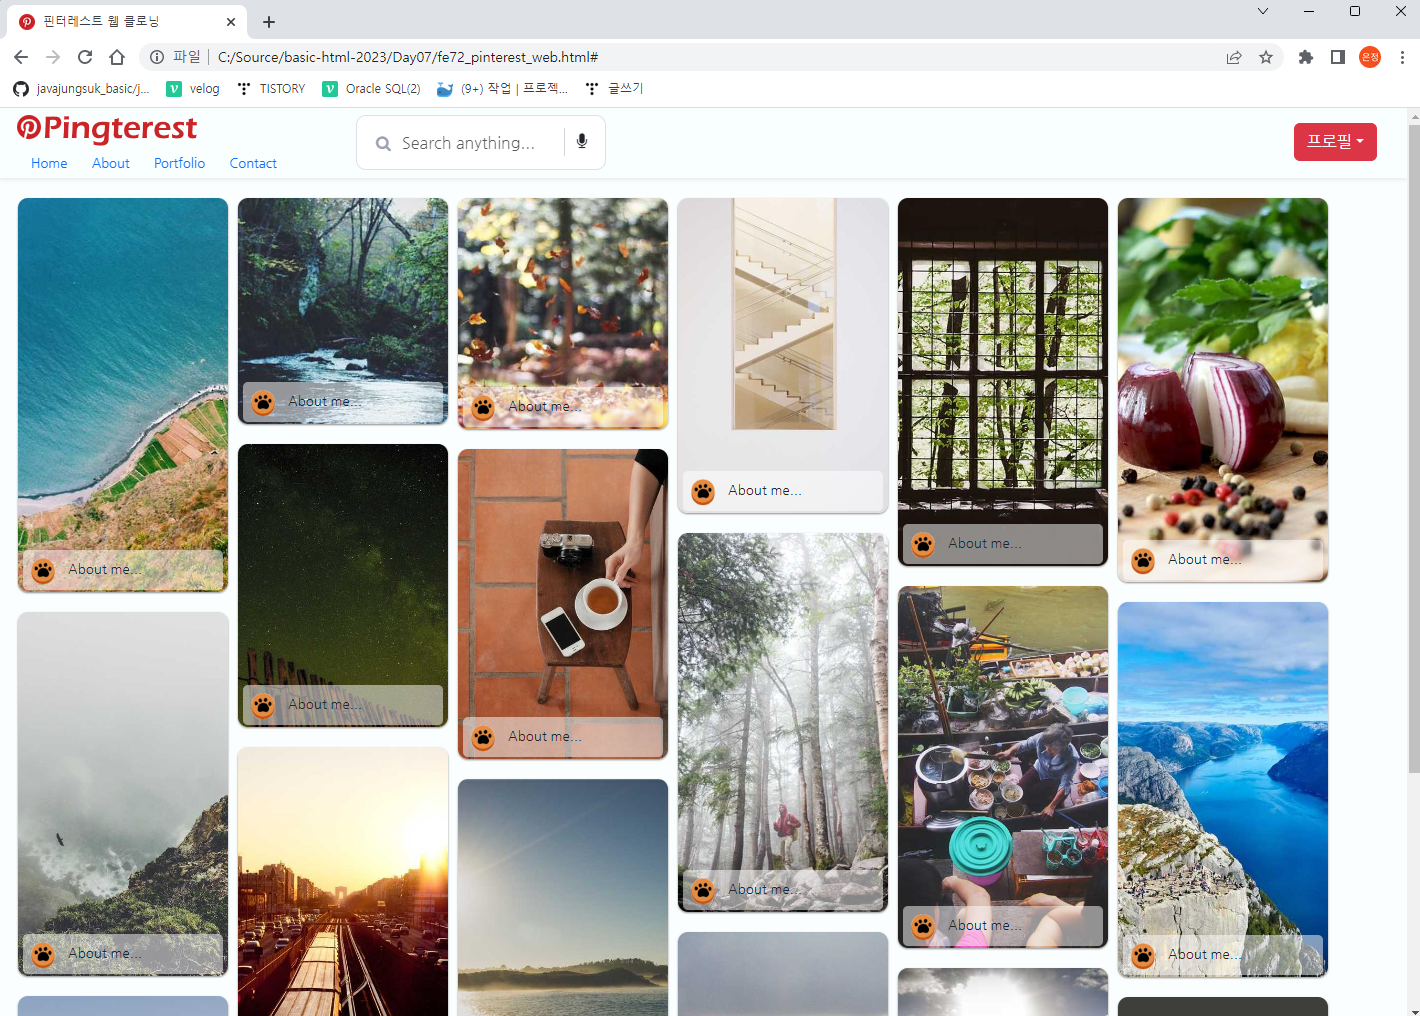
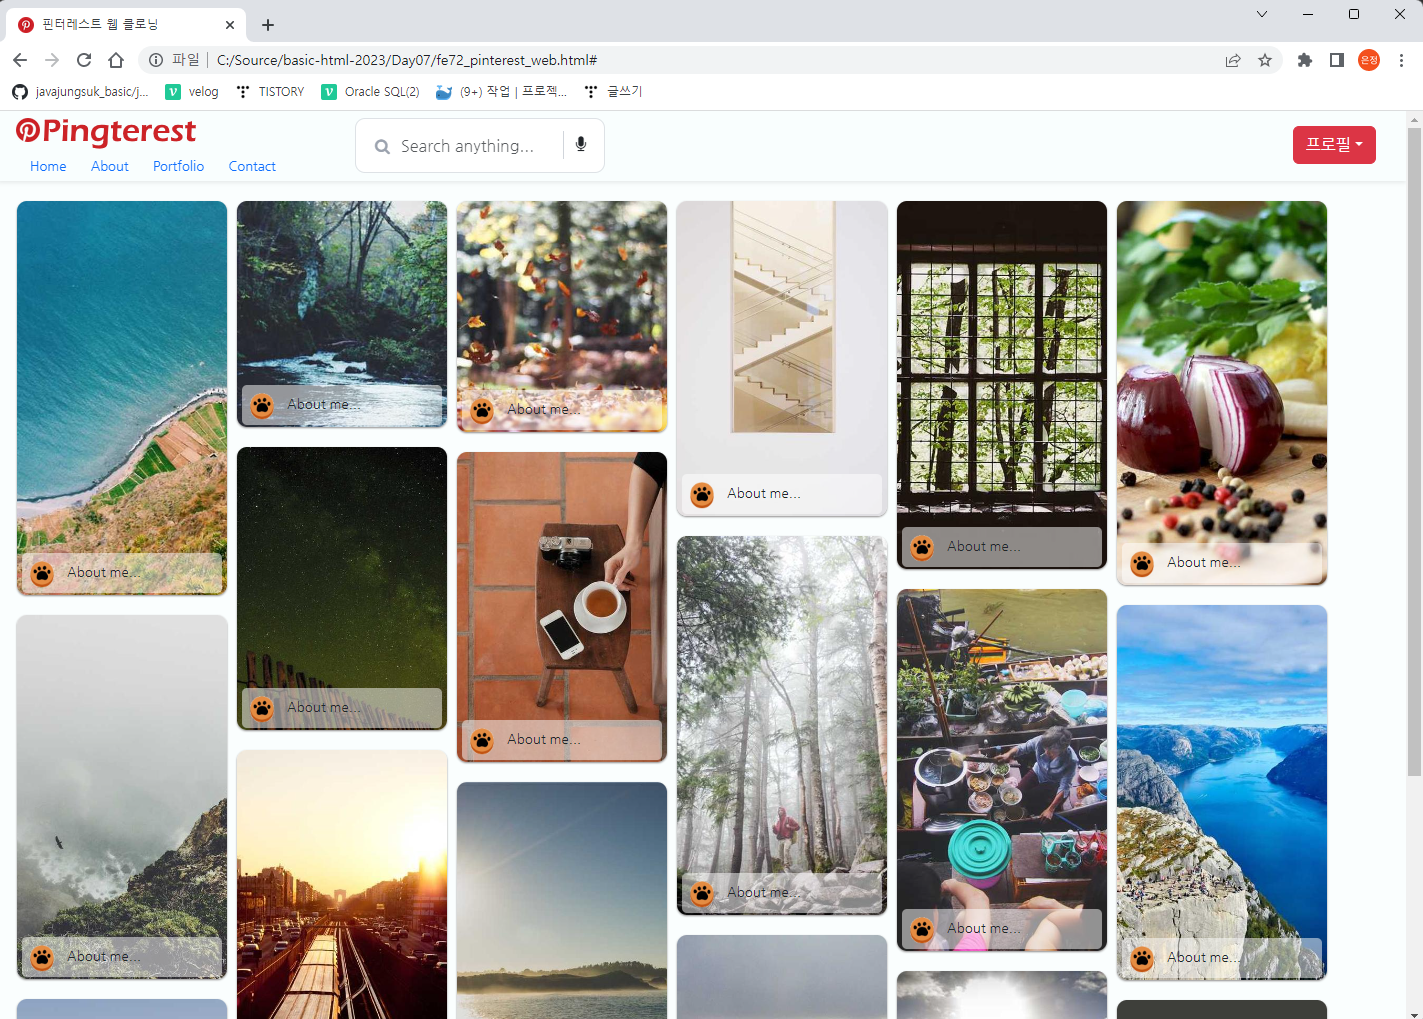
1

diff --git a/Day07/css/#main.css b/Day07/css/#main.css
@@ -1,0 +1,276 @@
+/* 초기화 */
+* {
+    font-family: 'NanumGothic', 'Malgun Gothic', sans-serif;
+    }
+    
+    a {
+    text-decoration: none;
+    }
+    
+    img {
+    border: 0;
+    }
+    
+    li {
+    list-style: none;
+    }
+    
+    body {
+    background-color: #fafefe;
+    }
+    
+    /* 헤더영역 스타일 */
+    #main-header {
+    height: 40px;
+    background-color: #f9fefe;
+    position: relative;
+    }
+    
+    .header-search-form {
+    float: left;
+    height: 26px;
+    padding: 7px;
+    }
+    
+    .header-menu {
+    float: right;
+    }
+    
+    .header-title {
+    position: absolute;
+    width: 200px;
+    height: 40px;
+    left: 10px;
+    /* margin-left: -100px; */
+    background-image: url('../images/logo.png');
+    background-repeat: no-repeat;
+    text-indent: -9999px;
+    }
+    
+    /* 풀다운 메뉴 영역 */
+    .outer-menu {
+    float: left;
+    width: 100px;
+    height: 20px;
+    line-height: 20px;
+    padding: 10px 0;
+    position: relative;
+    text-align: center;
+    font-size: small;
+    font-weight: bold;
+    z-index: 9999;
+    }
+    
+    .outer-menu:hover {
+    background-color: #e1dfdf;
+    }
+    
+    .inner-menu {
+    display: none;
+    background-color: white;
+    margin-top: 10px;
+    width: 100%;
+    border-top: 1px solid #cccaca;
+    box-shadow: 0 2px 2px rgba(34, 25, 25, 0.5);
+    }
+    
+    .inner-menu a {
+    display: block;
+    padding: 5px 10px;
+    z-index: 5000;
+    }
+    
+    .inner-menu a:hover {
+    background-color: #e1dfdf;
+    }
+    
+    /* 내비게이션 영역 */
+    #main-navigation {
+    height: 30px;
+    background-color: #f9fefe;
+    /* border-top: 1px solid #cfcaca; */
+    /* box-shadow: 1px 3px 3px rgba(34, 25, 25, 0.5); */
+    }
+    
+    #main-navigation>ul {
+    position: absolute;
+    margin-left: -10px;
+    overflow: hidden;
+    text-align: center;
+    }
+    
+    #main-navigation>ul>li {
+    display: inline;
+    padding: 0 5px;
+    line-height: 30px;
+    font-size: small;
+    color: #524d4d;
+    text-shadow: 0 1px 1px white;
+    }
+    
+    #mail-navigation>ul>li:hover {
+    background-color: #e1dfdf;
+    border-radius: 2px;
+    }
+    
+    /* input 영역 */
+    .form {
+    position: absolute;
+    left: 350px;
+    }
+    
+    .form .fa-search {
+    
+    position: absolute;
+    top: 20px;
+    left: 20px;
+    color: #9ca3af;
+    
+    }
+    
+    .form span {
+    
+    position: absolute;
+    right: 17px;
+    top: 13px;
+    padding: 2px;
+    border-left: 1px solid #d1d5db;
+    
+    }
+    
+    .left-pan {
+    padding-left: 7px;
+    }
+    
+    .left-pan i {
+    
+    padding-left: 10px;
+    }
+    
+    .form-input {
+    width: 250px;
+    height: 55px;
+    text-indent: 33px;
+    border-radius: 10px;
+    }
+    
+    .form-input:focus {
+    
+    box-shadow: none;
+    border: none;
+    }
+    
+    /* 카드영역 */
+    .paper {
+    width: 210px;
+    margin: 10px 5px;
+    /* padding: 15px 15px 0; */
+    font-size: smaller;
+    background-color: white;
+    box-shadow: 0 1px 2px rgba(34, 25, 25, 0.5);
+    border-radius: 10px;
+    }
+    
+    .paper-img {
+    border-radius: 10px;
+    }
+    
+    .paper-description {
+    margin: 10px 0;
+    }
+    
+    .paper-content {
+    z-index: 1000;
+    position: absolute;
+    bottom: 2px;
+    left: 5px;
+    /* margin: 0 -15px; */
+    margin-top: 10px;
+    padding: 5px;
+    background-color: rgba(255, 255, 255, 0.5);
+    border-radius: 5px;
+    }
+    
+    .paper-link {
+    display: block;
+    float: left;
+    }
+    
+    .paper-text {
+    float: left;
+    width: 150px;
+    margin-left: 10px;
+    margin-bottom: 0;
+    }
+    
+    /* 반응형 웹 영역 */
+    #main-section {
+    width: 920px;
+    margin: 0 auto;
+    padding-top: 75px;
+    }
+    
+    /* 한줄에 카드 세개*/
+    @media screen and (max-width: 920px) {
+    #main-section {
+    width: 690px;
+    }
+    }
+    
+    /* 한줄에 카드 네개*/
+    @media screen and (min-width: 920px) and (max-width: 1150px) {
+    #main-section {
+    width: 920px;
+    }
+    }
+    
+    /* 한줄에 카드 다섯개*/
+    @media screen and (min-width: 1150px) and (max-width: 1380px) {
+    #main-section {
+    width: 1150px;
+    }
+    }
+    
+    /* 한줄에 카드 여섯개*/
+    @media screen and (min-width: 1380px) {
+    #main-section {
+    width: 1380px;
+    }
+    }
+    
+    /* 라이트박스 영역 */
+    #darken-background {
+    display: none;
+    background-color: rgba(0, 0, 0, 0.7);
+    z-index: 10000;
+    /* 가장 위로 올림*/
+    overflow-y: scroll;
+    /* 영역 위치 변경 */
+    position: absolute;
+    top: 0;
+    left: 0;
+    right: 0;
+    height: 100%;
+    }
+    
+    #lightbox {
+    width: 700px;
+    margin: 20px auto;
+    padding: 15px;
+    border: 1px solid #999999;
+    border-radius: 10px;
+    background-color: white;
+    text-align: center;
+    }
+    
+    .head-wrapper {
+    width: 100%;
+    position: fixed;
+    z-index: 9000;
+    }
+    
+    .profile-loc {
+    position: absolute;
+    top: 15px;
+    right: 30px;
+    }

diff --git a/Day07/script/main.js b/Day07/script/main.js
@@ -1,0 +1,44 @@
+$(document).ready(function () {
+    // 풀다운메뉴 이벤트
+    $('.outer-menu').hover(function () {
+        $(this).find('.inner-menu').css('display', 'block');
+    }, function () {
+        $(this).find('.inner-menu').css('display', 'none');
+    });
+
+    // masonry layout + imageload plugin
+    $('#main-section').imagesLoaded(function () {
+        $('#main-section').masonry({
+            itemSelector: '.paper',
+            columnWidth: 220,
+            isAnimated: true,
+        });
+    });
+
+    // 라이트박스 동작
+    function showLightBox(obj) { // 라이트박스 보이기
+        var img_src = obj.getElementsByTagName('img')[0].src;
+        $('#random-image').attr('src', img_src);
+
+        $('#darken-background').show();
+        $('#darken-background').css('top', $(window).scrollTop());
+        $('body').css('overflow', 'hidden');
+    }
+
+    function hideLightBox() { // 라이트박스 숨기기
+        $('#darken-background').hide();
+        $('body').css('overflow', '');
+    }
+
+    $('.paper').click(function () {
+        showLightBox(this);
+    });
+
+    $('#darken-background').click(function () {
+        hideLightBox();
+    })
+
+    $('#lightbox').click(function (e) {
+        e.stopPropagation(); // 클릭이벤트 하위 객체 전달금지
+    });
+});

diff --git a/Day07/fe72_pinterest_web.html b/Day07/fe72_pinterest_web.html
@@ -12,6 +12,16 @@
     <link rel="icon" href="images/pinterest.ico">
     <!-- 3. Bootstrap Icon용 CDN-->
     <link rel="stylesheet" href="https://cdnjs.cloudflare.com/ajax/libs/font-awesome/4.7.0/css/font-awesome.min.css">
+    <!-- 현재 페이지용 css 링크 -->
+    <link rel="stylesheet" href="css/#main.css">
+    <!-- jQuery 추가 -->
+    <script src="https://code.jquery.com/jquery-3.6.4.min.js"
+            integrity="sha256-oP6HI9z1XaZNBrJURtCoUT5SUnxFr8s3BzRl+cbzUq8=" crossorigin="anonymous"></script>
+    <!-- Desandro libraries CDN -->
+    <script src="https://unpkg.com/masonry-layout@4/dist/masonry.pkgd.min.js"></script>
+    <script src="https://unpkg.com/imagesloaded@5/imagesloaded.pkgd.min.js"></script>
+    <!-- 현재 페이지용 js 링크 -->
+    <script src="script/main.js"></script>
     <style>
         /* 초기화 */
         * {

diff --git a/README.md b/README.md
@@ -60,6 +60,11 @@ Java 개발자 과정 프론트앤드 리포지토리
 ## 7일차
 - 프론트엔드 학습
     - 핀터레스트 스타일 웹페이지 마무리
+        - Bootstrap 5.3.0
+        - jQuery 3.6.4
+        - Masonry layout Library
+        - ImageLoaded Library
+        - Lightbox 구현
     
 7일차 핀터레스트 스타일 클로닝
 <img src ="https://raw.githubusercontent.com/eunjoengme/basic-html-2023/main/image/pingterest.png" width="700">
